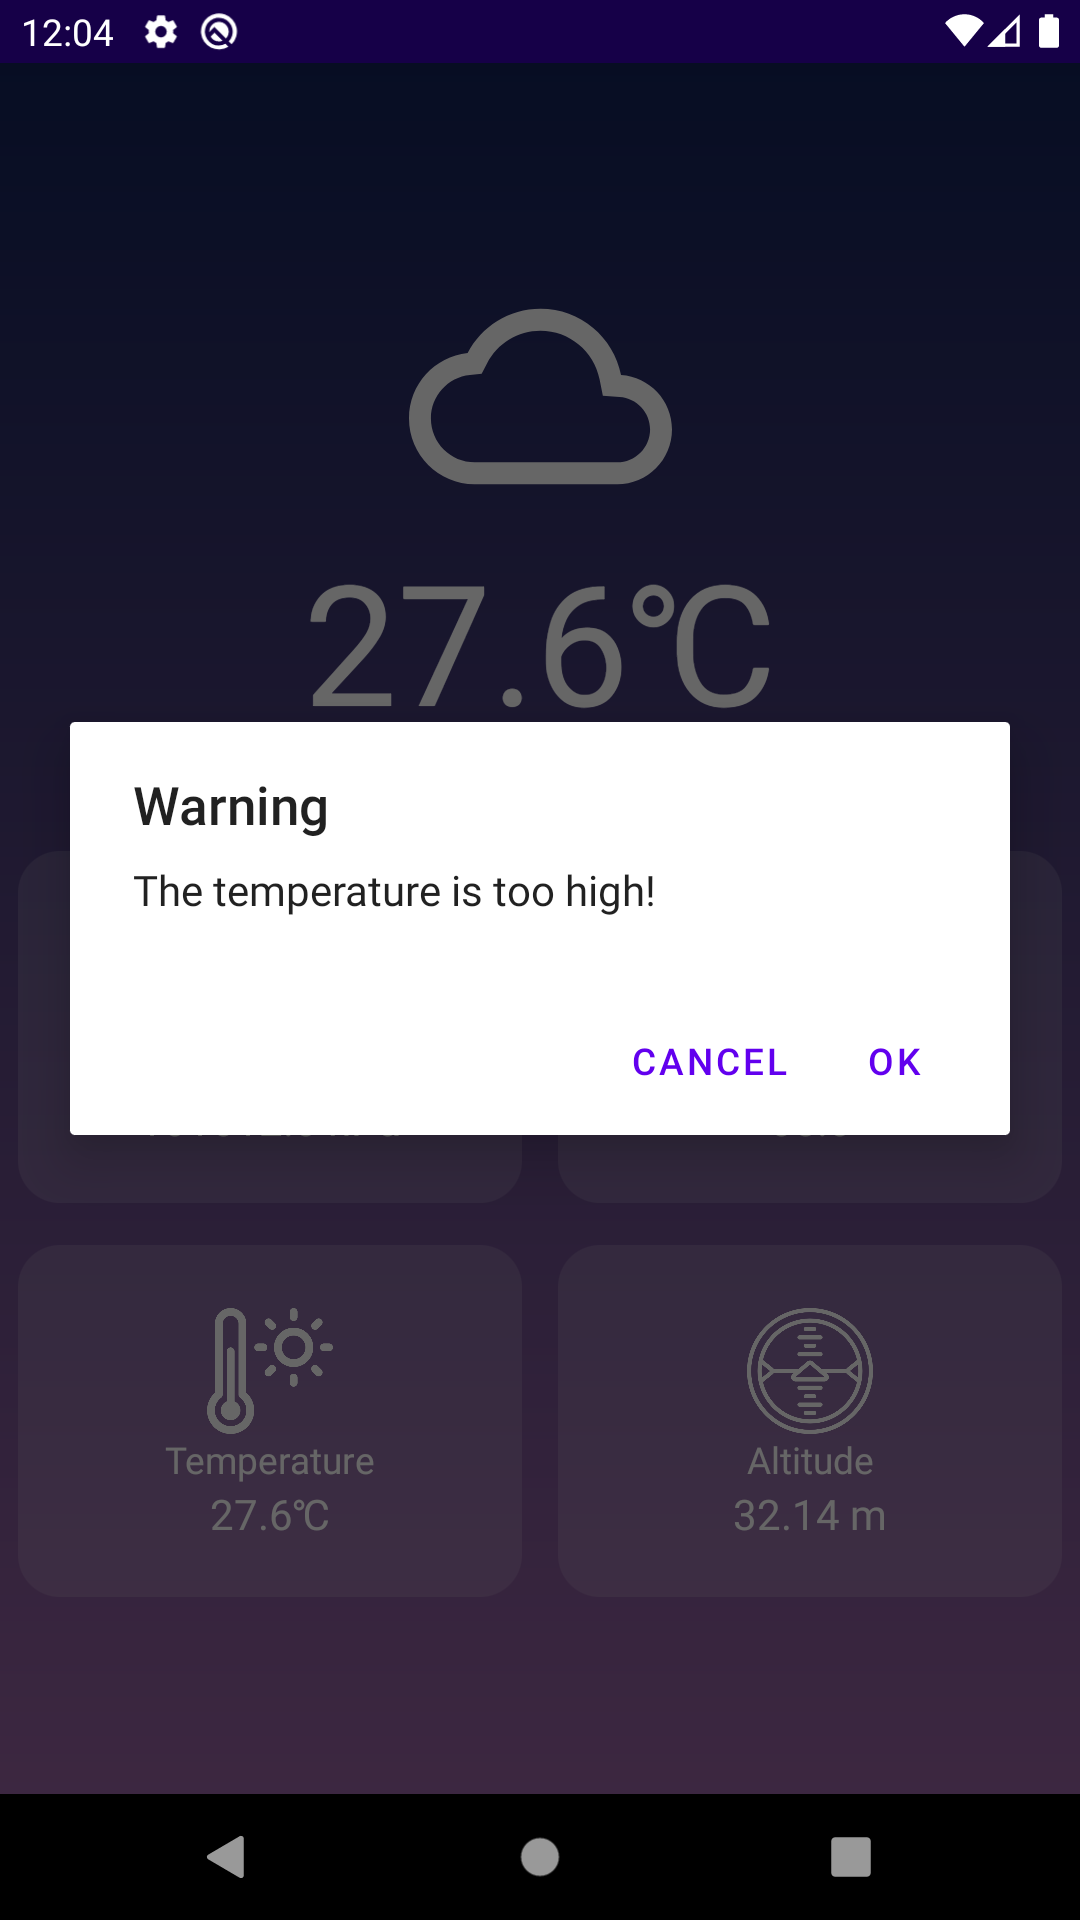
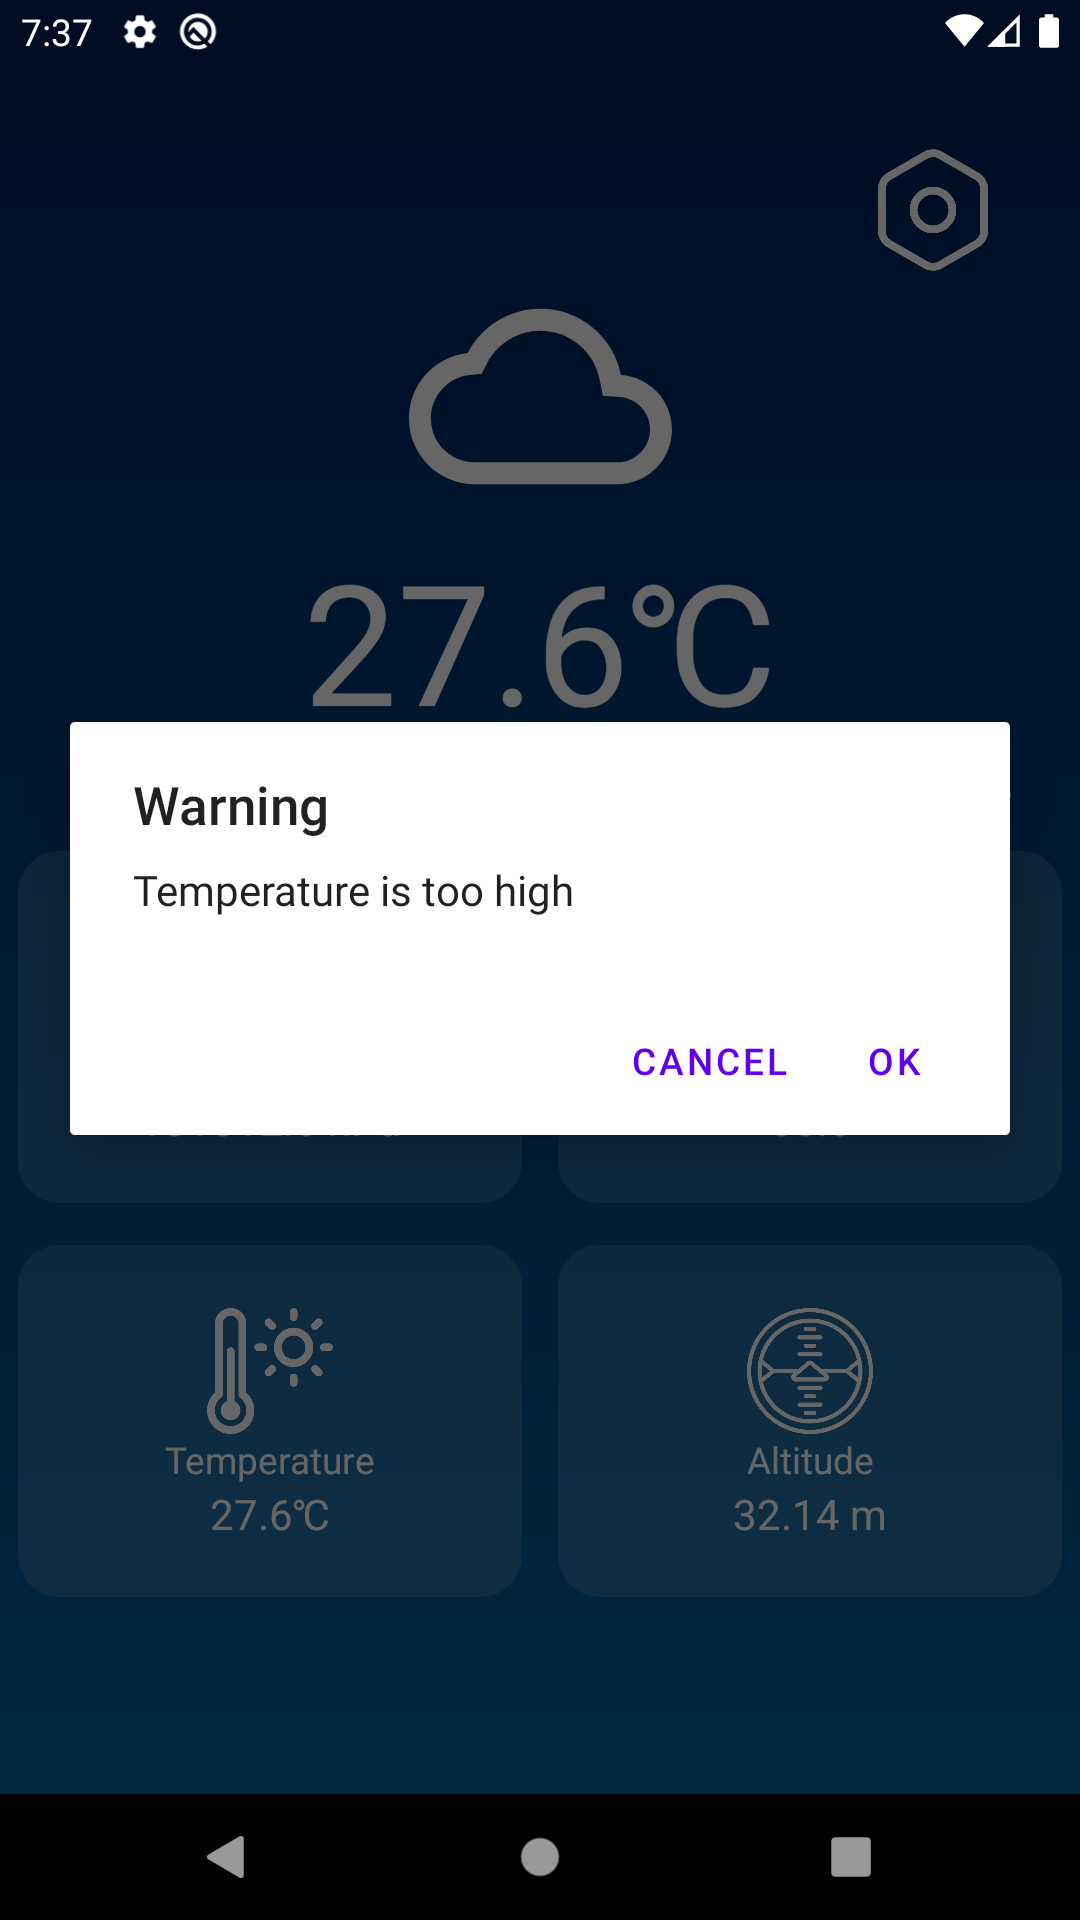
:memo: Updated README.md

diff --git a/README.md b/README.md
@@ -24,3 +24,8 @@ Alert Display when temperature is high
 
 
 ![Alert Display](/Images/alert.png)
+
+
+Settings
+
+![Settings](/Images/settings.png)
